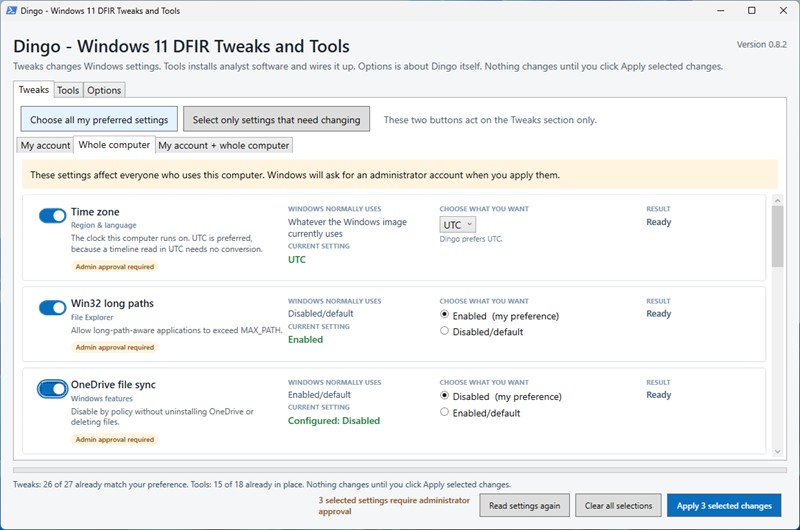
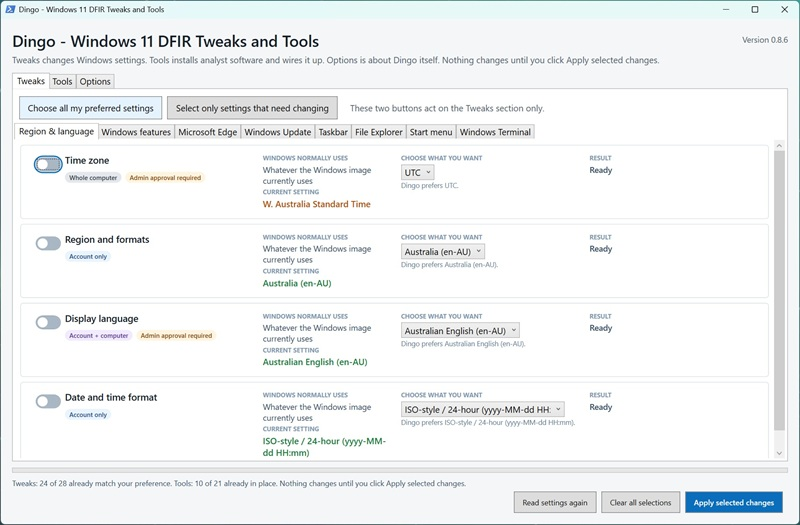
Move Resume to Windows features and add Taskbar signposts
Windows has two Resume switches. Settings > Apps > Resume turns the
feature off, which Dingo already set. Settings > Taskbar > Resume only
hides the taskbar badge, and writes IsEnabled under Explorer\Advanced,
which Dingo did not set. The Resume card now sets both, restarts File
Explorer for the badge, and sits on Windows features, because it turns off
the whole feature.

The Taskbar tab gets two signposts, for Resume and for the Copilot
taskbar button, each with a button that opens Windows features. The
Copilot card text now says plainly what it turns off.

New-Entry takes -Missing, the value Windows means when it has not written
one yet. Taskbar alignment and the Resume badge use it.

The README screenshot shows the new tabs.

diff --git a/README.md b/README.md
@@ -179,7 +179,6 @@ Each card offers a list to choose from.
 | `taskbar-search` | Search box | no | Hidden |
 | `task-view` | Task View button | no | Hidden |
 | `widgets` | Windows Widgets | no | Removed for this account |
-| `resume` | Cross-device Resume | yes | Disabled |
 | `taskbar-alignment` | Taskbar alignment | no | Centre |
 | `taskbar-combine` | Combine taskbar buttons | no | Never combine |
 | `end-task` | End task on right-click | no | Enabled |
@@ -201,6 +200,7 @@ Each card offers a list to choose from.
 | `onedrive` | OneDrive file sync | yes | Disabled by policy |
 | `windows-copilot` | Windows Copilot | yes | Disabled |
 | `long-paths` | Win32 long paths | yes | Enabled |
+| `resume` | Cross-device Resume, and its taskbar badge | yes | Disabled |
 | `windows-update` | Manual update configuration | yes | Configured |
 
 ### Microsoft Edge
